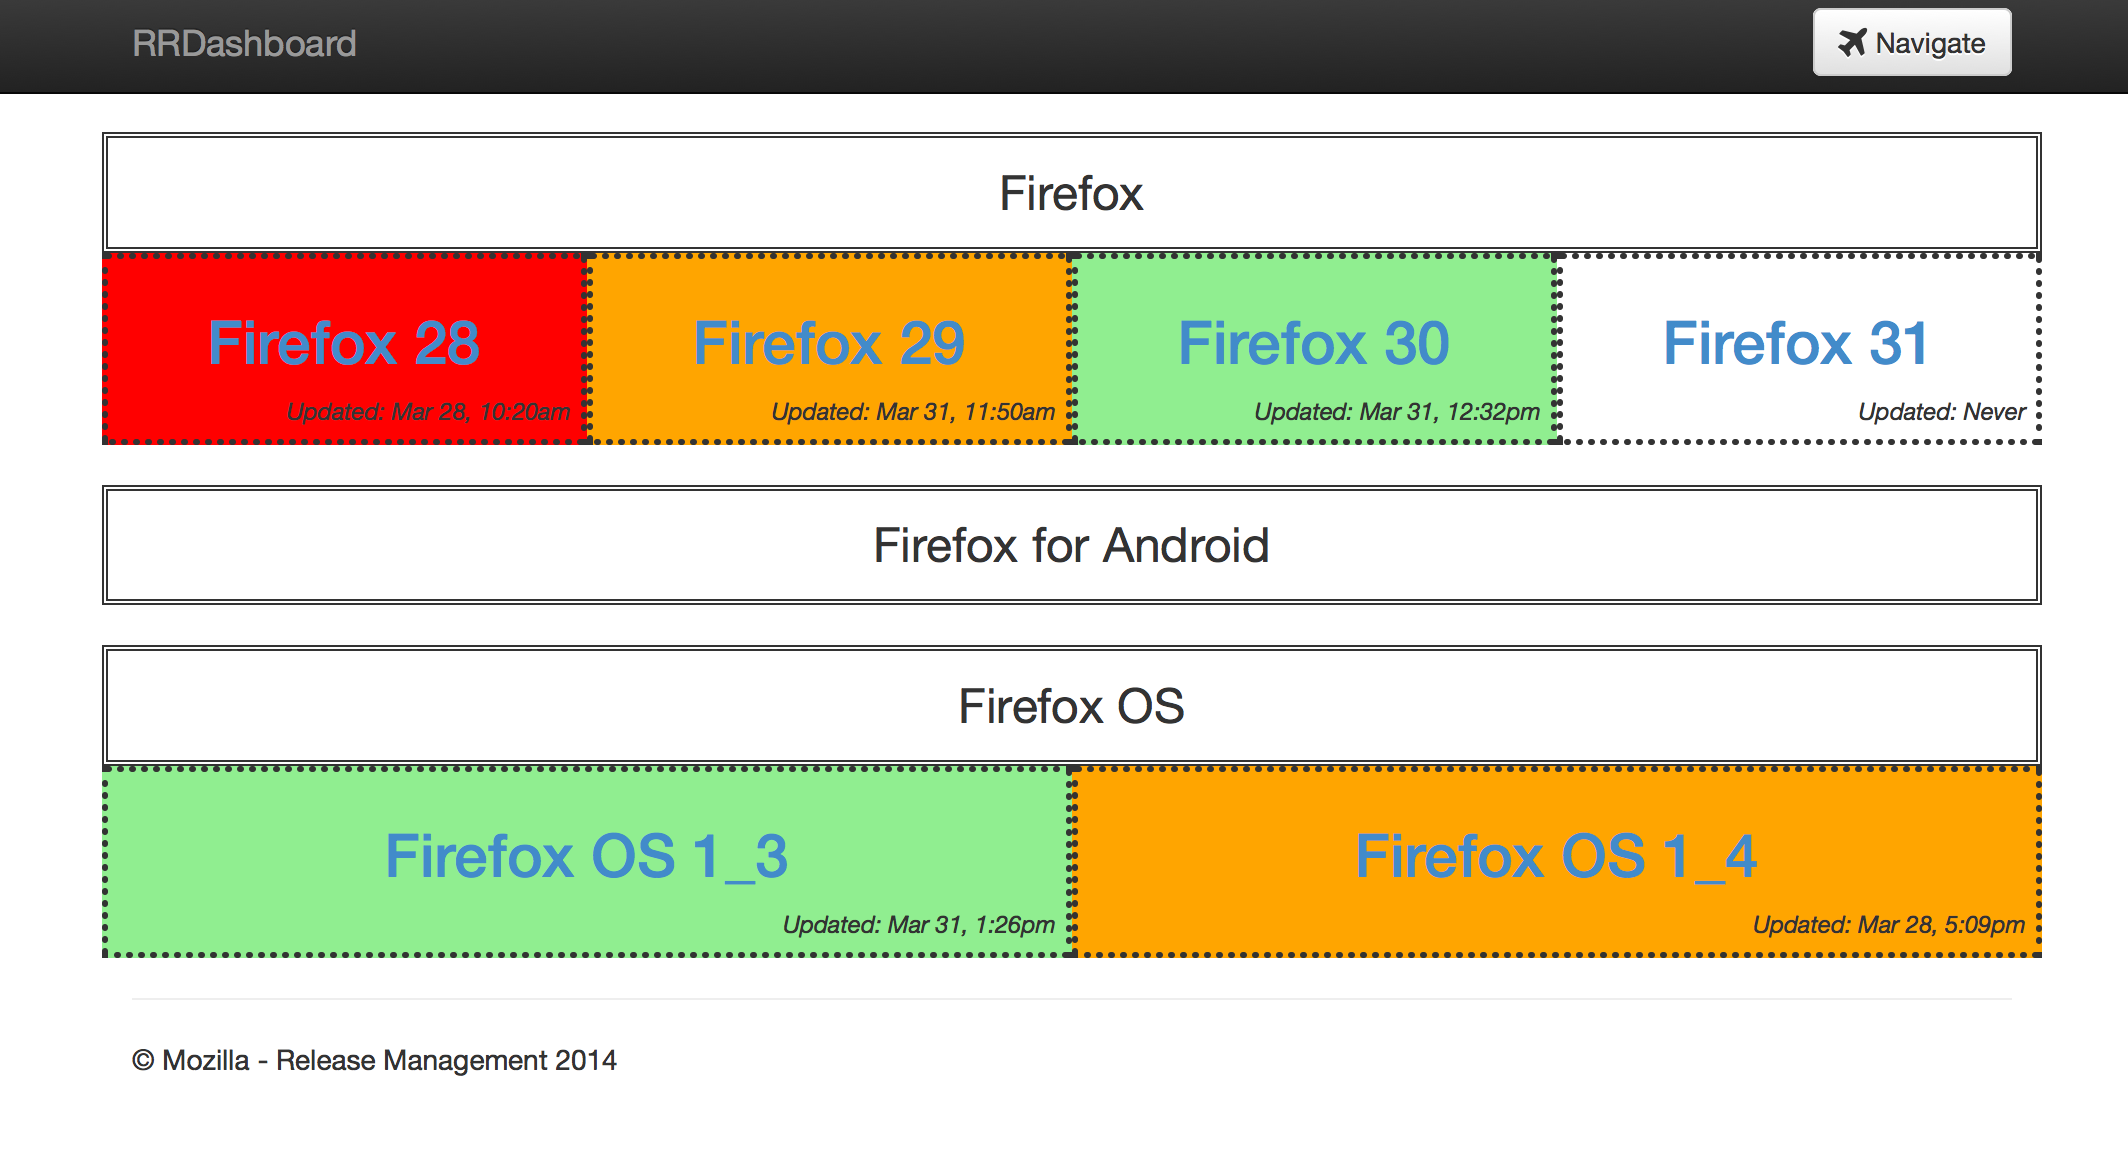
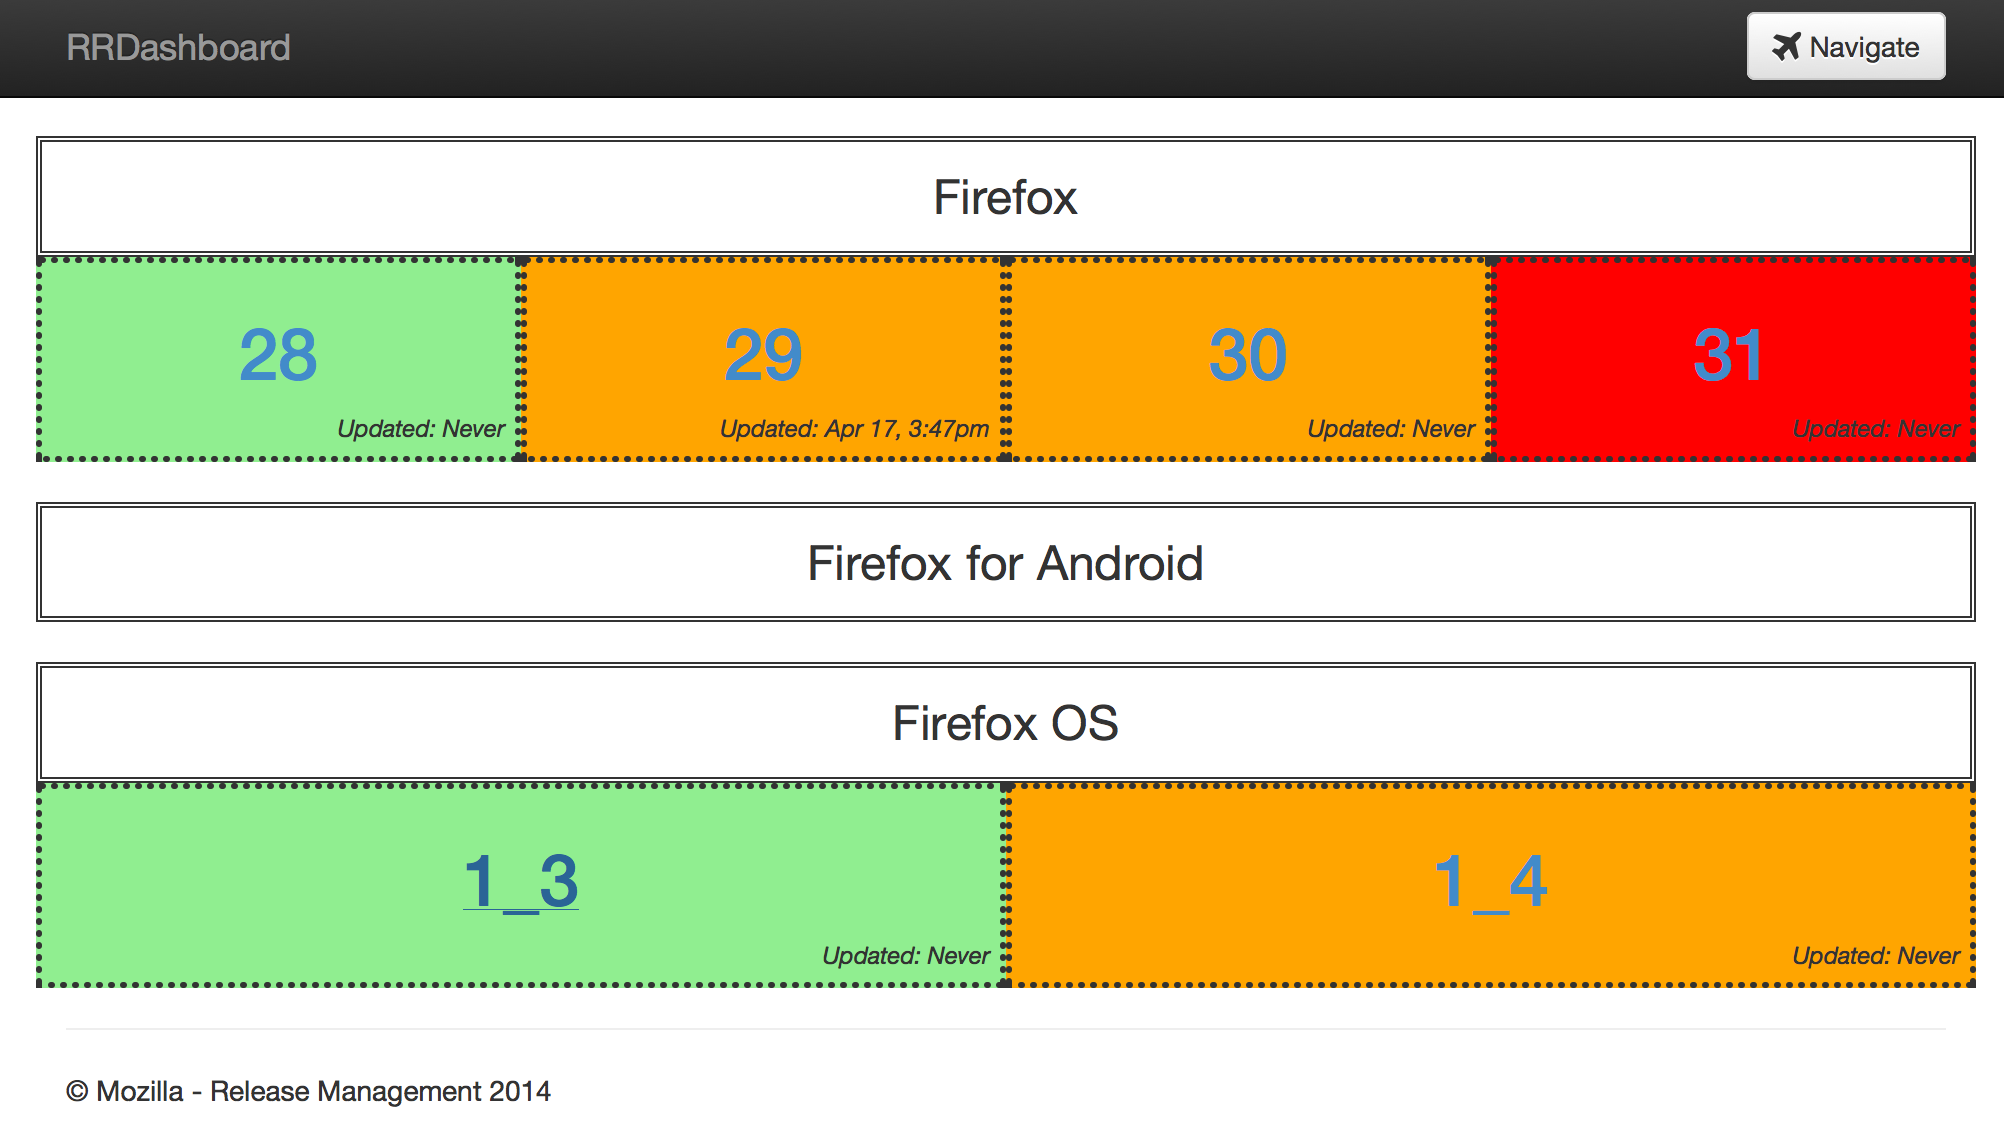
better scoring aggregation

diff --git a/assets/js/watch_single/helpers_es.js b/assets/js/watch_single/helpers_es.js
@@ -283,14 +283,13 @@
                 });
 
                 var score = '';
-                if ( greenCount > yellowCount && greenCount > redCount ){
-                    score = 'lightgreen';
-
-                } else if ( yellowCount > redCount ) {
-                    score = 'orange';
-                
-                } else {
+                var highScore = Math.max(redCount, yellowCount, greenCount);
+                if ( highScore == redCount ){
                     score = 'red';
+                } else if ( highScore == yellowCount ) {
+                    score = 'orange';
+                } else {
+                    score = 'lightgreen';
                 }
 
                 // Did we specify that we didn't want to save when applying this score?
